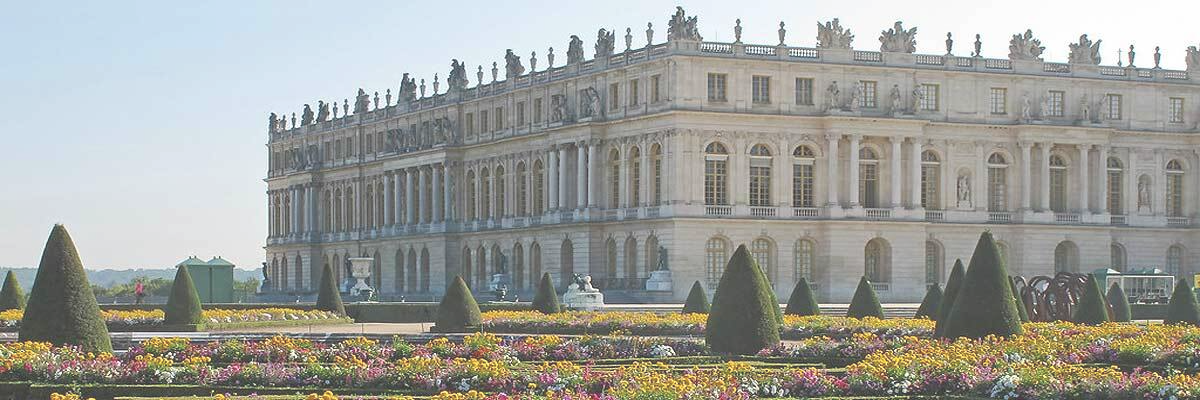
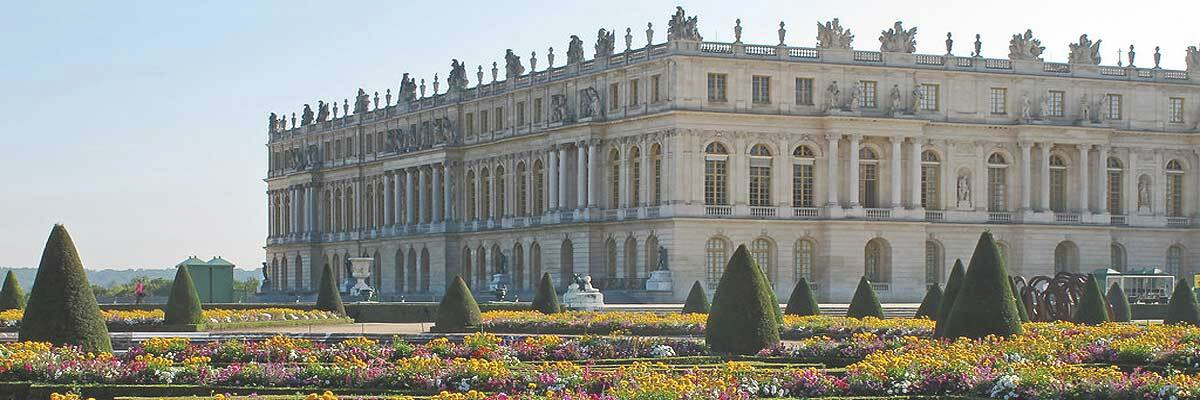
update

diff --git a/info/index.html b/info/index.html
@@ -15,7 +15,7 @@
 <body>
 
     <div class="banner">
-        <img src="assets/CdV2.jpg" alt="Palace of Versailles">
+        <img src="assets/CdV.png" alt="Palace of Versailles">
         <div class="top-left">
             <span class="title1">CHARMS Summer School </span> <br> <br> <span class="title2">Categorical and geometric methods in the representation theory of algebras</span>
         </div>
@@ -50,6 +50,7 @@
         In order to get to Versailles, one can either take a flight to one of the two paris aiports (CDG, ORY), or a train to Paris or Versailles. You can then use the local transport (bus, metro, tram, RER, taxi, etc.) to get to the university or the hotel. Here are the relevant websites for public transport in the Île-de-France region. <br>
         <a href="https://www.ratp.fr/">https://www.ratp.fr/</a><br>
         <a href="https://www.sncf.com/fr/">https://www.sncf.com/fr</a>
+        <br>
         <br>
         The summer school will take place at the Faculty of Science of Université de Versailles Saint-Quentin-en-Yvelines. Please find the Google Maps location below. 
         <a href="https://maps.app.goo.gl/A3DCPrTkTWtJtEuZA"><iframe class="directions" src="https://www.google.com/maps/embed?pb=!1m18!1m12!1m3!1d3018.159092030831!2d2.1452696729017338!3d48.81128072272484!2m3!1f0!2f0!3f0!3m2!1i1024!2i768!4f13.1!3m3!1m2!1s0x47e67c501af496e7%3A0x2701f97ca60d6da6!2sUVSQ%20-%20UFR%20des%20Sciences%20-%20Universit%C3%A9%20Paris-Saclay!5e0!3m2!1sen!2sfr!4v1707136636161!5m2!1sen!2sfr" width="600" height="450" style="border:0;" allowfullscreen="" loading="lazy" referrerpolicy="no-referrer-when-downgrade"></iframe></a>

diff --git a/program/index.html b/program/index.html
@@ -18,7 +18,7 @@
 <body>
 
     <div class="banner">
-        <img src="assets/CdV2.jpg" alt="Palace of Versailles">
+        <img src="assets/CdV.png" alt="Palace of Versailles">
         <div class="top-left">
             <span class="title1">CHARMS Summer School </span> <br> <br> <span class="title2">Categorical and geometric methods in the representation theory of algebras</span>
         </div>

diff --git a/registration/index.html b/registration/index.html
@@ -15,7 +15,7 @@
 <body>
 
     <div class="banner">
-        <img src="assets/CdV2.jpg" alt="Palace of Versailles">
+        <img src="assets/CdV.png" alt="Palace of Versailles">
         <div class="top-left">
             <span class="title1">CHARMS Summer School </span> <br> <br> <span class="title2">Categorical and geometric methods in the representation theory of algebras</span>
         </div>
